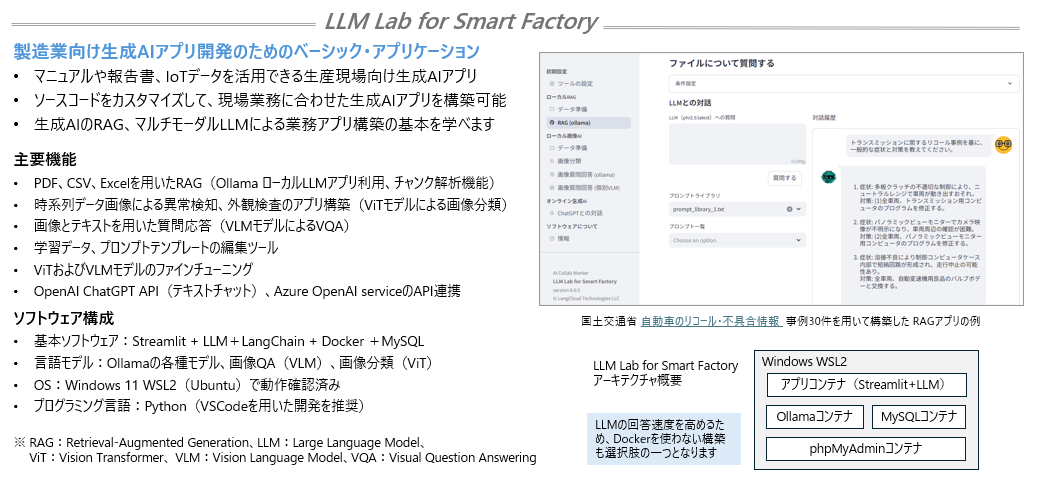
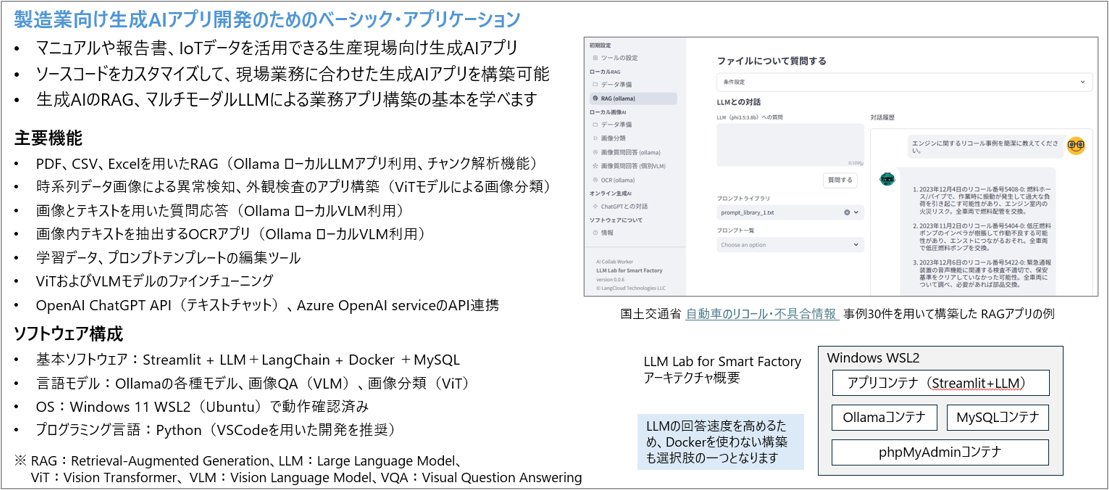
v0.0.6

diff --git a/src/pages/ollama_ocr.py b/src/pages/ollama_ocr.py
@@ -1,0 +1,161 @@
+import os
+from PIL import Image
+import streamlit as st
+from streamlit_chat import message
+from components.ollama_vlm_chat import ollama_vlm_chat
+# ツールの設定ページのURL
+TOOL_SETTING_URL = os.environ['TOOL_SETTING_URL']
+
+# メッセージを表示する
+def display_messages():
+    if "ollama_ocr_messages" not in st.session_state:
+        st.session_state["ollama_ocr_messages"] = []
+    
+    for i, (msg, is_user) in enumerate(st.session_state["ollama_ocr_messages"]):
+        message(msg, is_user=is_user, key=str(i))
+    st.session_state["thinking_spinner"] = st.empty()
+
+# 画像ファイルを読み込んで保存する
+def image_read_and_save_file():
+    # VLMクラスのインスタンスを作成
+    st.session_state["ollama_ocr_assistant"] = ollama_vlm_chat()
+    st.session_state["user_input"] = ""
+
+# 画像についての質問を処理する
+def image_process_input():
+    if st.session_state["user_input"] and len(st.session_state["user_input"].strip()) > 0:
+        user_text = st.session_state["user_input"].strip()
+
+        with st.session_state["thinking_spinner"], st.spinner(f"解析中..."):
+            # LLMに質問を投げる
+            agent_text = st.session_state["ollama_ocr_assistant"].analyze_image_by_api(user_text, "ocr")
+
+        st.session_state["ollama_ocr_messages"].append((user_text, True))
+        st.session_state["ollama_ocr_messages"].append((agent_text, False))
+
+        # 最後に入力をクリアする
+        st.session_state["user_input"] = ""
+
+# 対話履歴をクリアする
+def clear_messages():
+    st.session_state["ollama_ocr_messages"] = []
+
+# OCRプロンプトを設定する
+def set_ocr_prompt():
+    prompt_simple = """画像のテキストをすべて抽出してください。"""
+
+    prompt_text = """ 画像内のすべてのテキストを、日本語で見たまま正確に抽出してください。  
+- 要約、言い換え、補完、または欠落したテキストの推測を絶対に行わないでください。
+- 出力は以下のフォーマットを正確に再現してください:
+- ヘッダー: 画像内に存在する場合のみ使用してください。
+- 箇条書き、番号付きリスト: 画像内の形式をそのまま保持してください。
+- スペース、句読点、改行: 画像内の配置をそのまま維持してください。
+- テキストが不明瞭または一部しか見えない場合でも、推測せずに、見える範囲で可能な限り正確に抽出してください。
+- 無関係または繰り返しのように見えるテキストであっても、すべて含めてください。
+- テキストの順序を変更せず、画像内で見える順序をそのまま維持してください。
+        """
+    prompt_markdown = """ 画像内のすべてのテキストを、日本語で見たまま正確に抽出してください。  
+- 要約、言い換え、補完、または欠落したテキストの推測を絶対に行わないでください。
+- 出力はMarkdown形式でフォーマットしてください。
+- ヘッダー: 画像内に存在する場合のみ使用してください。
+- 箇条書き、番号付きリスト: 画像内の形式をそのまま保持してください。
+- スペース、句読点、改行: 画像内の配置をそのまま維持してください。
+- テキストが不明瞭または一部しか見えない場合でも、推測せずに、見える範囲で可能な限り正確に抽出してください。
+- 無関係または繰り返しのように見えるテキストであっても、すべて含めてください。
+- テキストの順序を変更せず、画像内で見える順序をそのまま維持してください。
+        """    
+    if "o_ocr_output_format" in st.session_state:
+        if st.session_state["o_ocr_output_format"] == "テキスト（シンプル）":
+            st.session_state["user_input"] = prompt_simple
+        elif st.session_state["o_ocr_output_format"] == "テキスト":
+            st.session_state["user_input"] = prompt_text
+        elif st.session_state["o_ocr_output_format"] == "Markdown":
+            st.session_state["user_input"] = prompt_markdown
+
+
+def ollama_ocr():
+
+    st.markdown("#### 画像からテキストを読み取る (OCR)")
+
+    with st.expander("条件設定", expanded=True):
+
+        cols = st.columns([45,20,15,20])
+        with cols[0]:
+                # 画像ファイルをアップロードする
+                uploaded_image_file = st.file_uploader(
+                    "Upload image file",
+                    type=["jpg", "jpeg", "png"],
+                    key="uploaded_image_file",
+                    on_change=image_read_and_save_file,
+                    label_visibility="collapsed",
+                    accept_multiple_files=False,
+                )
+                model_name = st.session_state.ollama_ocr_model_name
+        with cols[1]:
+            pass
+        with cols[2]:
+            st.write("　")
+            st.write("　")
+            st.button("出力結果をクリア", on_click=clear_messages)
+        with cols[3]: 
+            o_ocr_dialog_window_size_list = [200, 300, 400, 500, 600]
+            st.selectbox(
+                '出力結果ウィンドウの長さ',
+                tuple(o_ocr_dialog_window_size_list),
+                key="o_ocr_dialog_window_size"
+            )
+            if "o_ocr_dialog_window_size" not in st.session_state:
+                st.session_state["o_ocr_dialog_window_size"] = 400
+
+    st.session_state["ingestion_spinner"] = st.empty()
+
+    st.markdown("##### OCR実行")
+    
+    cols = st.columns([45,55])
+    with cols[0]:
+        if "uploaded_image_file" in st.session_state and st.session_state.uploaded_image_file is not None:
+            # 画像を取得して表示する
+            st.image(Image.open(st.session_state["uploaded_image_file"]))
+        else:
+            st.write("画像ファイルをアップロードしてください")
+    with cols[1].container(height=st.session_state.o_ocr_dialog_window_size):
+        # メッセージを表示する
+        display_messages() 
+
+    # ユーザーの入力を処理する（OSS LLMとの対話）
+    if st.session_state.uploaded_image_file is not None:
+        cols = st.columns([50,50])
+        with cols[0]:
+            # 入力欄を表示
+            st.text_area(
+                "VLM（" + model_name + "）を使う", 
+                key="user_input", 
+                height=150,
+                max_chars=1000,
+            )
+            st.button("OCRを実行", on_click=image_process_input)
+
+        with cols[1]:
+
+            # 出力フォーマットを選択し、OCR用プロンプトを設定する
+            o_ocr_output_format = ["テキスト（シンプル）", "テキスト", "Markdown"]
+            st.selectbox(
+                '出力フォーマット',
+                tuple(o_ocr_output_format),
+                index = None,
+                key="o_ocr_output_format",
+                on_change=set_ocr_prompt
+            )
+            if "o_ocr_output_format" not in st.session_state:
+                st.session_state["o_ocr_output_format"] = "テキスト（シンプル）"
+
+#------------------------------------
+# ollamaモデルとの質問メイン処理
+
+# モデルが利用できる場合は質問を受け付ける
+if "ollama_availability" in st.session_state and st.session_state.ollama_availability == True:
+    ollama_ocr()
+else:
+    st.error("アプリケーション立上げ時は「[ツールの設定](" + TOOL_SETTING_URL + ")」へアクセスしてください。")
+    
+

diff --git a/src/pages/setting.py b/src/pages/setting.py
@@ -1,7 +1,7 @@
 import os
 import glob
 import streamlit as st
-from components.ollama_llm_list import ollama_llm_list
+from components.ollama_llm_list import get_ollama_llm_list
 from components.vlm_model_load import vlm_model_load
 from components.vit_model_load import vit_model_load
 
@@ -132,7 +132,6 @@ with cols[0]:
     pass
 with cols[1]:
     vlm_model_name_list = [
-        # "Phi-4-multimodal-instruct",   # preparing for v0.0.5
         "Phi-3.5-vision-instruct",
         "Phi-3.5-vision-finetuning-lora",
         "llava-calm2-siglip",
@@ -217,8 +216,8 @@ st.markdown(
 )
 
 # ollamaコンテナの接続およびLLMモデルの取得状況を確認    
-ollama_llm_list, ollama_vlm_list = ollama_llm_list()
-if len(ollama_llm_list) > 0 and len(ollama_vlm_list) > 0:
+ollama_llm_list, ollama_vlm_list, ollama_ocr_list = get_ollama_llm_list()
+if len(ollama_llm_list) > 0 and len(ollama_vlm_list) > 0 and len(ollama_ocr_list) > 0:
     st.session_state.ollama_availability = True
     st.markdown("- モデルの選択（モデルはダウンロード済み）")
 else:
@@ -234,8 +233,8 @@ if st.session_state.ollama_availability == True:
     with cols[1]:
         # デフォルトのollama LLMモデルの設定
         if "ollama_llm_model_name" not in st.session_state:
-            if "phi4:latest" in ollama_llm_list:
-                st.session_state.ollama_llm_model_name = "phi4:latest"                
+            if "phi4:14b" in ollama_llm_list:
+                st.session_state.ollama_llm_model_name = "phi4:14b"                
                 index = ollama_llm_list.index(st.session_state.ollama_llm_model_name)
             else:
                 index = 0
@@ -273,10 +272,27 @@ if st.session_state.ollama_availability == True:
             key="ollama_param1"
         )
     with cols[3]:
-        pass
+        # デフォルトのOCR用ollama Vision LMモデルの設定
+        if "ollama_ocr_model_name" not in st.session_state:
+            st.session_state.ollama_ocr_model_name = "gemma3:12b"
+            index = ollama_ocr_list.index(st.session_state.ollama_ocr_model_name)
+        else:
+            if "ollama_param9" in st.session_state:
+                if st.session_state.ollama_ocr_model_name != st.session_state.ollama_param9:
+                    index = ollama_ocr_list.index(st.session_state.ollama_param9)
+                else:
+                    index = ollama_ocr_list.index(st.session_state.ollama_ocr_model_name)
+            else:
+                index = ollama_ocr_list.index(st.session_state.ollama_ocr_model_name)
+        st.session_state.ollama_ocr_model_name = st.selectbox(
+            "OCR用VLMの選択",
+            tuple(ollama_ocr_list),
+            index=index,
+            key="ollama_param9"
+        )
 
-    # Vision LLMモデルのシステム設定
-    st.markdown("- モデルのシステム設定")    
+    # RAGのモデル設定
+    st.markdown("- RAGのモデル設定")    
     cols = st.columns([4, 32, 42, 22])
     with cols[0]:
         pass
@@ -305,7 +321,7 @@ if st.session_state.ollama_availability == True:
 
         # ollamaシステムプロンプト設定欄
         input = st.text_area(
-            "ollamaシステムプロンプト",
+            "RAGシステムプロンプト",
             placeholder="入力してください",
             value=system_prompt,
             key="ollama_param3", 

diff --git a/src/pages/chat_ollama_vlm.py b/src/pages/chat_ollama_vlm.py
@@ -32,7 +32,7 @@ def image_process_input():
 
         with st.session_state["thinking_spinner"], st.spinner(f"解析中..."):
             # LLMに質問を投げる
-            agent_text = st.session_state["ollama_vlm_assistant"].analyze_image_by_api(ask_text)
+            agent_text = st.session_state["ollama_vlm_assistant"].analyze_image_by_api(ask_text, "vlm")
             
         st.session_state["ollama_vlm_messages"].append((user_text, True))
         st.session_state["ollama_vlm_messages"].append((agent_text, False))
@@ -51,7 +51,7 @@ def chat_ollama_vlm():
 
     with st.expander("条件設定", expanded=True):
 
-        cols = st.columns([45,15,20,20])
+        cols = st.columns([45,20,15,20])
         with cols[0]:
                 # 画像ファイルをアップロードする
                 uploaded_image_file = st.file_uploader(
@@ -102,8 +102,8 @@ def chat_ollama_vlm():
             st.text_area(
                 "VLM（" + model_name + "）への質問", 
                 key="user_input", 
-                height=110,
-                max_chars=200,
+                height=150,
+                max_chars=1000,
             )
             st.button("質問する", on_click=image_process_input)
 

diff --git a/src/components/ollama_llm_list.py b/src/components/ollama_llm_list.py
@@ -2,10 +2,11 @@ import requests
 import streamlit as st
 
 # 対応可能なモデル名をリストで定義
-ollama_llm_lists = ["phi4:latest", "phi3.5:latest", "phi3:latest", "llama3.2:latest"]
-ollama_vlm_lists = ["llava:latest", "llava-phi3:latest","gemma3:12b","llama3.2-vision:latest"]
+ollama_llm_lists = ["phi4:14b", "phi3.5:3.8b", "llama3.2:3b", "gpt-oss:20b"]
+ollama_vlm_lists = ["llava-phi3:3.8b","gemma3:12b","llama3.2-vision:11b"]
+ollama_ocr_lists = ["gemma3:12b", "llama3.2-vision:11b"]
 
-def ollama_llm_list():
+def get_ollama_llm_list():
     # ollamaのモデル一覧を取得
     url = "http://ollama:11434/api/tags"
     headers = {
@@ -25,6 +26,10 @@ def ollama_llm_list():
     vlm_available_models = []
     for key in res_json['models']:
         if key['name'] in ollama_vlm_lists:
-            vlm_available_models.append(key['name']) 
+            vlm_available_models.append(key['name'])
+    ocr_available_models = []
+    for key in res_json['models']:
+        if key['name'] in ollama_ocr_lists:
+            ocr_available_models.append(key['name'])
 
-    return llm_available_models, vlm_available_models
+    return llm_available_models, vlm_available_models, ocr_available_models

diff --git a/src/app.py b/src/app.py
@@ -26,7 +26,7 @@ if __name__ == "__main__":
           <div style="position: fixed; bottom: 0; padding: 18px;  color: gray">
                <div style="font-size: 14px; ">AI Collab Worker</div>
                <div style="font-size: 15px; font-weight: bold""> LLM Lab for Smart Factory</div>
-               <div style="font-size: 14px;">version 0.0.5</div>
+               <div style="font-size: 14px;">version 0.0.6</div>
                <div style="font-size: 14px; ">© LangCloud Technologies LLC</div>
           </div>
        """
@@ -59,7 +59,7 @@ if __name__ == "__main__":
                st.Page(page="pages/classify_image.py", title="画像分類", icon=":material/label_important:"),
                st.Page(page="pages/chat_ollama_vlm.py", title="画像質問回答 (ollama)", icon=":material/psychology:"), 
                st.Page(page="pages/chat_vlm.py", title="画像質問回答 (個別VLM)", icon=":material/hub:"),
-
+               st.Page(page="pages/ollama_ocr.py", title="OCR (ollama)", icon=":material/psychology:"), 
           ],
           "オンライン生成AI": [
                st.Page(page="pages/chat_openai.py", title="ChatGPTとの対話", icon=":material/open_with:"),

diff --git a/src/components/ollama_vlm_chat.py b/src/components/ollama_vlm_chat.py
@@ -23,7 +23,7 @@ class ollama_vlm_chat():
         return encoded_img
     
     # 画像をAPIで解析
-    def analyze_image_by_api(self, prompt):
+    def analyze_image_by_api(self, prompt, type):
     
         # 画像をBase64エンコード
         if st.session_state.uploaded_image_file is not None:
@@ -31,9 +31,19 @@ class ollama_vlm_chat():
         else:
             return "Error: No image file uploaded"
 
+        # VLMかOCRかでモデルを切り替える
+        model = None
+        if type == "vlm":
+            model = st.session_state.ollama_vlm_model_name
+            temp = 0.7
+        elif type == "ocr":
+            model = st.session_state.ollama_ocr_model_name
+            temp = 0.1    # OCRでは0.1を指定する
+
         data = {
-            'model': st.session_state.ollama_vlm_model_name,
+            'model': model,
             'prompt': prompt,
+            "temperature": temp,
             'images': [st.session_state.encoded_image_data],
         }
   

diff --git a/src/tools/ollama_ocr.py b/src/tools/ollama_ocr.py
@@ -1,0 +1,21 @@
+from PIL import Image
+import base64
+import io
+
+def image_to_base64(image_path):
+    with Image.open(image_path) as img:
+        buffered = io.BytesIO()
+        img.save(buffered, format="PNG")
+        img_bytes = buffered.getvalue()
+        img_base64 = base64.b64encode(img_bytes).decode('utf-8')
+    return img_base64
+
+image_path = '/path/to/image.png'
+base64_image = image_to_base64(image_path)
+
+response = ollama.chat(
+    model="x/llama3.2-vision:latest",
+    messages=[{ "role": "user", "content": "Describe this image?", "images": [base64_image] }]
+)
+cleaned_text = response['message']['content'].strip()
+print(f"Model Response: {cleaned_text}")

diff --git a/src/pages/chat_ollama_rag.py b/src/pages/chat_ollama_rag.py
@@ -112,7 +112,7 @@ def chat_ollama_rag():
         with cols[1]:
             st.write("Embedding APIの設定：" + st.session_state["embeddings_api"])
         
-        cols = st.columns([25,33,22,20])
+        cols = st.columns([25,38,17,20])
         with cols[0]:
             # ファイル種類を選択する
             vector_db_file_type_list = ("CSV", "Excel", "PDF")
